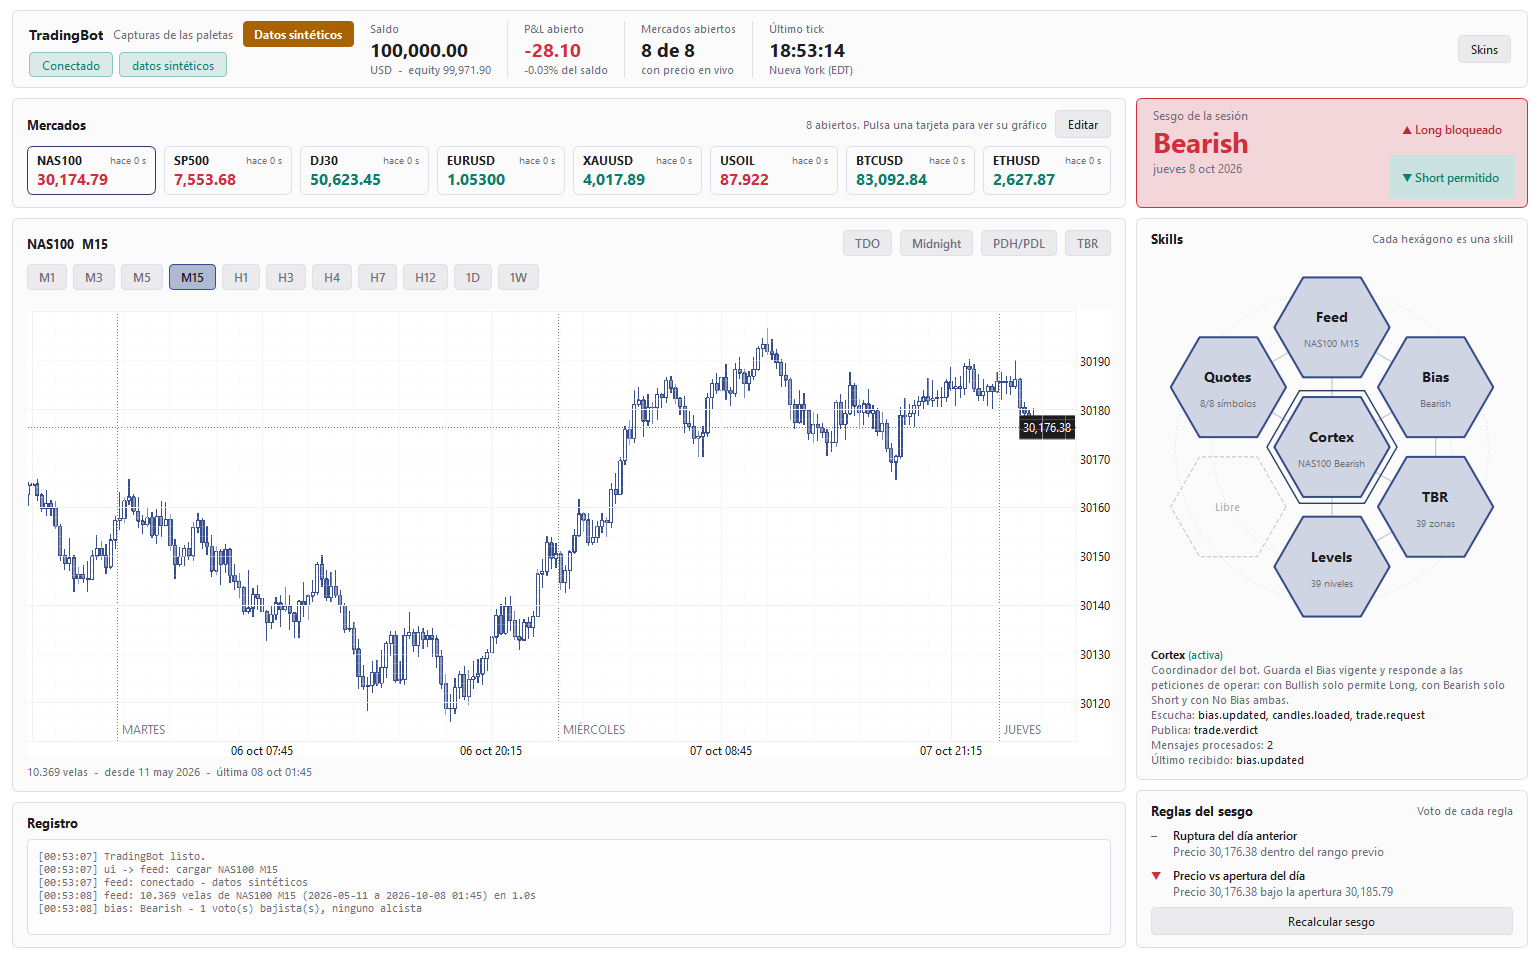
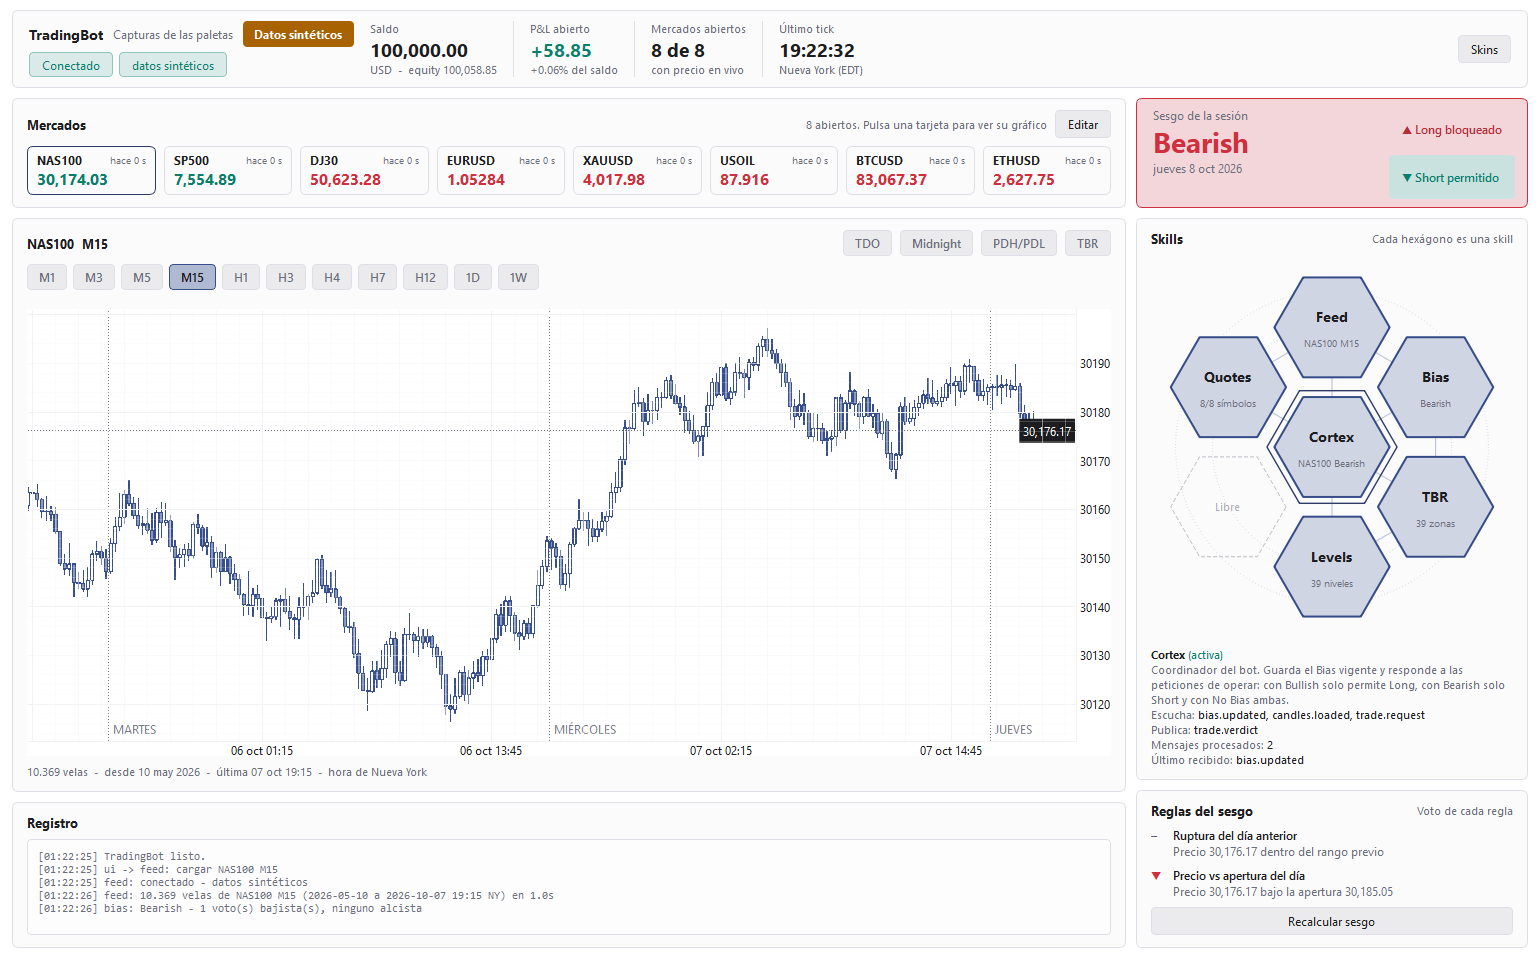
Gráfico: eje de tiempo en hora de Nueva York y ejes redimensionables
- El eje de tiempo muestra la hora de Nueva York (servidor - desfase que
  mide Quotes; hasta medirlo, NY + 7 h estimado). La línea bajo el gráfico
  y el registro también van en hora de NY e indican si es estimada.
- Los ejes se redimensionan arrastrándolos, como en TradingView: precio
  (abajo comprime, arriba estira; pasa a escala manual y permite mover en
  vertical) y tiempo (izquierda más velas, derecha menos, con la última
  vela fija). Doble clic en un eje: escala automática.
- Pruebas nuevas en tests/test_chart_axes.py; README y capturas al día.

diff --git a/tradingbot/ui/chart.py b/tradingbot/ui/chart.py
@@ -1,6 +1,7 @@
-"""Gráfico de velas rápido (pyqtgraph) con eje X por índice y niveles de referencia."""
+"""Gráfico de velas rápido (pyqtgraph) con eje X por índice (hora de Nueva York) y ejes redimensionables."""
 from __future__ import annotations
 
+import math
 from datetime import datetime, timezone
 
 import numpy as np
@@ -9,6 +10,7 @@ from PySide6.QtCore import QPointF, QRectF, Qt
 from PySide6.QtGui import QColor, QPen, QPolygonF
 from PySide6.QtWidgets import QGraphicsRectItem
 
+from ..clock import NY_CLOSE_SERVER_AHEAD_HOURS
 from ..skills.bias.rules import fmt_price
 from . import theme
 from .fmt import fecha_hora
@@ -60,15 +62,71 @@ class DaySeparators(pg.GraphicsObject):
             p.drawText(QPointF(pt.x() + 5, pt.y() - 6), label)
 
 
-class TimeAxis(pg.AxisItem):
-    """Eje X por índice de vela: muestra la hora del servidor del broker."""
+class ScaleAxis(pg.AxisItem):
+    """Eje que se redimensiona al arrastrarlo, como en TradingView. Doble clic: vuelve a la escala automática.
+
+    - Eje de precio: arrastrar hacia abajo comprime el precio, hacia arriba lo estira.
+    - Eje de tiempo: arrastrar a la izquierda muestra más velas, a la derecha menos (anclado a la derecha).
+    """
+
+    SENSITIVITY = 0.01      # factor de escala por píxel arrastrado
+
+    def __init__(self, orientation: str, **kw):
+        super().__init__(orientation=orientation, **kw)
+        self.chart: "ChartView | None" = None
+        vertical = orientation in ("left", "right")
+        self.setCursor(Qt.CursorShape.SizeVerCursor if vertical else Qt.CursorShape.SizeHorCursor)
+        self.setToolTip("Arrastra para redimensionar el eje. Doble clic: escala automática.")
+
+    @property
+    def vertical(self) -> bool:
+        return self.orientation in ("left", "right")
+
+    def mouseDragEvent(self, event):
+        vb = self.linkedView()
+        if self.chart is None or vb is None or event.button() != Qt.MouseButton.LeftButton:
+            return super().mouseDragEvent(event)
+        if vb.sceneBoundingRect().contains(event.buttonDownScenePos()):
+            event.ignore()                              # el arrastre empezó dentro del gráfico, no en el eje
+            return
+        event.accept()
+        delta = event.pos() - event.lastPos()
+        if self.vertical:
+            self.chart.scale_price(math.exp(delta.y() * self.SENSITIVITY))
+        else:
+            self.chart.scale_time(math.exp(-delta.x() * self.SENSITIVITY))
+
+    def mouseClickEvent(self, event):
+        if self.chart is not None and event.double() and event.button() == Qt.MouseButton.LeftButton:
+            event.accept()
+            if self.vertical:
+                self.chart.reset_price_scale()
+            else:
+                self.chart.reset_time_scale()
+            return
+        return super().mouseClickEvent(event)
+
+
+class TimeAxis(ScaleAxis):
+    """Eje X por índice de vela: muestra la hora de Nueva York.
+
+    Las velas llegan en hora del servidor del broker; `ny_shift` es cuánto va el servidor por delante de Nueva York
+    (en Vantage, 7 h). Hasta que Quotes mide el desfase real se usa ese valor estimado.
+    """
 
     def __init__(self, **kw):
-        super().__init__(orientation="bottom", **kw)
+        super().__init__("bottom", **kw)
         self._ts: np.ndarray = np.empty(0, dtype=np.int64)
+        self.ny_shift = NY_CLOSE_SERVER_AHEAD_HOURS * 3600
 
     def set_times(self, ts: np.ndarray) -> None:
         self._ts = ts
+
+    def set_ny_shift(self, seconds: int) -> None:
+        if seconds != self.ny_shift:
+            self.ny_shift = seconds
+            self.picture = None                         # fuerza a redibujar las etiquetas
+            self.update()
 
     def tickStrings(self, values, scale, spacing):
         out = []
@@ -76,7 +134,7 @@ class TimeAxis(pg.AxisItem):
         for v in values:
             i = int(round(v))
             if 0 <= i < n:
-                dt = datetime.fromtimestamp(int(self._ts[i]), tz=timezone.utc)
+                dt = datetime.fromtimestamp(int(self._ts[i]) - self.ny_shift, tz=timezone.utc)
                 out.append(fecha_hora(dt))
             else:
                 out.append("")
@@ -161,9 +219,14 @@ class CandlestickItem(pg.GraphicsObject):
 
 
 class ChartView(pg.PlotWidget):
+    VIEW_BARS = 220          # velas visibles al cargar (y al hacer doble clic en el eje de tiempo)
+    MIN_BARS = 10            # zoom máximo del eje de tiempo
+
     def __init__(self) -> None:
         self.time_axis = TimeAxis()
-        super().__init__(axisItems={"bottom": self.time_axis}, background=theme.CHART_BG)
+        self.price_axis = ScaleAxis("right")
+        super().__init__(axisItems={"bottom": self.time_axis, "right": self.price_axis}, background=theme.CHART_BG)
+        self.time_axis.chart = self.price_axis.chart = self
         pi = self.getPlotItem()
         pi.hideAxis("left")
         pi.showAxis("right")
@@ -214,7 +277,7 @@ class ChartView(pg.PlotWidget):
             self.set_levels(dict(self._levels))
         self.update()
 
-    def set_candles(self, df, view_bars: int = 220) -> None:
+    def set_candles(self, df, view_bars: int | None = None) -> None:
         o, h = df["open"].to_numpy(), df["high"].to_numpy()
         l, c = df["low"].to_numpy(), df["close"].to_numpy()
         self._n = len(df)
@@ -227,8 +290,45 @@ class ChartView(pg.PlotWidget):
         self.set_last_price(float(c[-1]))
         vb = self.getPlotItem().getViewBox()
         vb.setLimits(xMin=-5, xMax=self._n + 60)
-        vb.setXRange(max(0, self._n - view_bars), self._n + 8, padding=0)
+        vb.setXRange(max(0, self._n - (view_bars or self.VIEW_BARS)), self._n + 8, padding=0)
+        self.reset_price_scale()
+
+    # -- escala de los ejes (arrastrando sobre ellos) -------------------------------------------------
+    @property
+    def price_auto(self) -> bool:
+        """True mientras el eje de precio se ajusta solo a las velas visibles."""
+        return bool(self.getPlotItem().getViewBox().autoRangeEnabled()[1])
+
+    def set_ny_shift(self, seconds: int) -> None:
+        """Cuánto va el servidor del broker por delante de Nueva York (para las etiquetas del eje de tiempo)."""
+        self.time_axis.set_ny_shift(seconds)
+
+    def scale_price(self, factor: float) -> None:
+        """Estira (factor < 1) o comprime (factor > 1) el precio alrededor del centro; pasa a escala manual."""
+        vb = self.getPlotItem().getViewBox()
+        y0, y1 = vb.viewRange()[1]
+        center, half = (y0 + y1) / 2, (y1 - y0) / 2 * factor
+        vb.disableAutoRange(axis=vb.YAxis)
+        vb.setMouseEnabled(x=True, y=True)              # con escala manual, también se puede mover en vertical
+        vb.setYRange(center - half, center + half, padding=0)
+
+    def reset_price_scale(self) -> None:
+        vb = self.getPlotItem().getViewBox()
+        vb.setMouseEnabled(x=True, y=False)
+        vb.setAutoVisible(y=True)
         vb.enableAutoRange(axis="y")
+
+    def scale_time(self, factor: float) -> None:
+        """Más velas (factor > 1) o menos (factor < 1), manteniendo fijo el borde derecho."""
+        vb = self.getPlotItem().getViewBox()
+        x0, x1 = vb.viewRange()[0]
+        width = min(max((x1 - x0) * factor, self.MIN_BARS), self._n + 65)
+        vb.setXRange(x1 - width, x1, padding=0)
+
+    def reset_time_scale(self) -> None:
+        vb = self.getPlotItem().getViewBox()
+        vb.setXRange(max(0, self._n - self.VIEW_BARS), self._n + 8, padding=0)
+        self.reset_price_scale()
 
     def set_last_price(self, value: float) -> None:
         """Línea punteada y etiqueta con el último precio, como en los gráficos de MT5."""

diff --git a/tests/test_chart_axes.py b/tests/test_chart_axes.py
@@ -1,0 +1,93 @@
+"""Gráfico: eje de tiempo en hora de Nueva York y ejes redimensionables."""
+import os
+
+os.environ.setdefault("QT_QPA_PLATFORM", "offscreen")
+
+from datetime import datetime, timezone
+
+import numpy as np
+import pandas as pd
+import pytest
+
+
+@pytest.fixture(scope="module")
+def qapp():
+    from PySide6.QtWidgets import QApplication
+    return QApplication.instance() or QApplication([])
+
+
+def candles(n=500):
+    # velas M15 desde el miércoles 7 oct 2026 a las 01:00 del servidor (= 18:00 del martes en Nueva York)
+    t0 = int(datetime(2026, 10, 7, 1, 0, tzinfo=timezone.utc).timestamp())
+    ts = np.arange(n, dtype=np.int64) * 900 + t0
+    close = 1.10 + np.sin(np.arange(n) / 20) * 0.01
+    return pd.DataFrame({"ts": ts, "open": close, "high": close + 0.001, "low": close - 0.001, "close": close})
+
+
+def test_el_eje_de_tiempo_va_en_hora_de_nueva_york(qapp):
+    from tradingbot.ui.chart import ChartView
+    chart = ChartView()
+    chart.set_candles(candles())
+    assert chart.time_axis.tickStrings([0], 1, 1) == ["06 oct 18:00"]      # servidor 01:00 - 7 h (estimado)
+    chart.set_ny_shift(6 * 3600)
+    assert chart.time_axis.tickStrings([0], 1, 1) == ["06 oct 19:00"]
+    assert chart.time_axis.tickStrings([-1, 10_000], 1, 1) == ["", ""]
+
+
+def test_arrastrar_el_eje_de_precio_lo_redimensiona_y_doble_clic_lo_restaura(qapp):
+    from tradingbot.ui.chart import ChartView
+    chart = ChartView()
+    chart.set_candles(candles())
+    vb = chart.getPlotItem().getViewBox()
+    assert chart.price_auto
+    y0, y1 = vb.viewRange()[1]
+    chart.scale_price(2.0)                                               # arrastrar hacia abajo: comprime
+    z0, z1 = vb.viewRange()[1]
+    assert not chart.price_auto and (z1 - z0) == pytest.approx(2 * (y1 - y0))
+    assert (z0 + z1) / 2 == pytest.approx((y0 + y1) / 2)                 # alrededor del centro
+    assert vb.state["mouseEnabled"] == [True, True]                      # con escala manual se mueve en vertical
+    chart.reset_price_scale()
+    assert chart.price_auto and vb.state["mouseEnabled"] == [True, False]
+
+
+def test_arrastrar_el_eje_de_tiempo_cambia_las_velas_visibles_con_el_borde_derecho_fijo(qapp):
+    from tradingbot.ui.chart import ChartView
+    chart = ChartView()
+    chart.set_candles(candles())
+    vb = chart.getPlotItem().getViewBox()
+    x0, x1 = vb.viewRange()[0]
+    chart.scale_time(0.5)                                                # arrastrar a la derecha: menos velas
+    n0, n1 = vb.viewRange()[0]
+    assert n1 == pytest.approx(x1) and (n1 - n0) == pytest.approx((x1 - x0) / 2)
+    chart.scale_time(0.0001)                                             # nunca menos de MIN_BARS
+    m0, m1 = vb.viewRange()[0]
+    assert m1 - m0 == pytest.approx(chart.MIN_BARS)
+    chart.scale_price(3.0)
+    chart.reset_time_scale()                                             # doble clic en el eje de tiempo
+    assert vb.viewRange()[0] == pytest.approx([x0, x1]) and chart.price_auto
+
+
+def test_los_ejes_responden_al_raton(qapp):
+    from tradingbot.ui.chart import ChartView, ScaleAxis
+    chart = ChartView()
+    assert isinstance(chart.getPlotItem().getAxis("right"), ScaleAxis)
+    assert chart.price_axis.vertical and not chart.time_axis.vertical
+    assert chart.price_axis.chart is chart and chart.time_axis.chart is chart
+
+
+def test_la_ventana_pasa_el_desfase_medido_al_eje(qapp, tmp_path, monkeypatch):
+    from tradingbot import settings
+    from tradingbot.core import EventBus, Services, SkillManager
+    from tradingbot.ui.main_window import MainWindow
+    monkeypatch.setattr(settings, "SETTINGS_FILE", tmp_path / "s.json")
+    cfg = {"app": {"symbol": "EURUSD", "timeframe": "15m", "watchlist": ["EURUSD"]}}
+    bus = EventBus()
+    win = MainWindow(bus, SkillManager(bus, Services(None, None, cfg), []), cfg, "t")
+    df = candles()
+    df["time"] = pd.to_datetime(df["ts"], unit="s")
+    win._on_candles({"df": df, "symbol": "EURUSD", "timeframe": "15m", "seconds": 0.1})
+    assert "06 oct 2026" in win.chart_stats.text() and "Nueva York (estimada)" in win.chart_stats.text()
+    summer = 3 * 3600                                                    # servidor UTC+3 con NY en horario de verano
+    win._on_quotes({"quotes": {}, "account": None, "server_offset": summer, "offset_source": "detectado"})
+    assert win.chart.time_axis.ny_shift == win.ny_shift and not win.ny_estimated
+    assert "estimada" not in win.chart_stats.text()

diff --git a/tradingbot/ui/main_window.py b/tradingbot/ui/main_window.py
@@ -12,7 +12,7 @@ from PySide6.QtWidgets import (QApplication, QButtonGroup, QFrame, QHBoxLayout, 
                                QProgressBar, QPushButton, QVBoxLayout, QWidget)
 
 from ..skills.bias import BiasResult
-from ..clock import format_offset, ny_from_server
+from ..clock import format_offset, ny_from_server, server_minus_ny
 from ..core import Event, EventBus, SkillManager
 from ..skills.feed.datasource import AccountSnapshot
 from ..timeframes import DEFAULT_TIMEFRAME, TIMEFRAMES, display_label
@@ -46,6 +46,7 @@ class MainWindow(QMainWindow):
         self.theme_name = theme_name
         self.all_symbols: list[str] = []
         self.charted_symbol = ""
+        self.ny_shift, self.ny_estimated = server_minus_ny(None)   # servidor - Nueva York (estimado hasta medirlo)
         self.current_symbol = self._match_symbol(app_cfg["app"]["symbol"]) or (self.watchlist[0] if self.watchlist else "")
 
         self.setWindowTitle("TradingBot")
@@ -171,7 +172,8 @@ class MainWindow(QMainWindow):
 
         chart_panel = Panel("Gráfico")
         self.chart_panel = chart_panel
-        chart_panel.title.setToolTip("Precio bid. El eje de tiempo va en hora del servidor del broker.")
+        chart_panel.title.setToolTip("Precio bid. El eje de tiempo va en hora de Nueva York.\n"
+                                     "Arrastra un eje para redimensionarlo; doble clic en él: escala automática.")
         # TBR: zonas horarias de NY y sus niveles (skill tbr; horarios y colores en tradingbot.env, bloque TBR)
         self.tbr_btn = QPushButton("TBR")
         self.tbr_btn.setProperty("chip", "true")
@@ -428,18 +430,37 @@ class MainWindow(QMainWindow):
             self._set_status("Conectado", "ok")
         self.candles = df
         self.chart.set_candles(df)
-        first, last = df["time"].iloc[0], df["time"].iloc[-1]
+        self.chart.set_ny_shift(self.ny_shift)
         self.chart_panel.title.setText(f"{symbol}  {display_label(tf)}")
-        self.chart_stats.setText(f"{miles(len(df))} velas  -  desde {fecha_corta(first)}  -  última {fecha_hora(last)}")
+        self._update_chart_stats()
+        first, last = self._ny(df["ts"].iloc[0]), self._ny(df["ts"].iloc[-1])
         self.log(f"feed: {miles(len(df))} velas de {symbol} {display_label(tf)} "
-                 f"({first:%Y-%m-%d} a {last:%Y-%m-%d %H:%M}) en {p['seconds']:.1f}s")
+                 f"({first:%Y-%m-%d} a {last:%Y-%m-%d %H:%M} NY) en {p['seconds']:.1f}s")
         self._set_busy(False)
         if not self._first_done:
             self._first_done = True
             self.first_loaded.emit()
 
+    def _ny(self, server_ts) -> datetime:
+        """Hora de Nueva York de una marca de tiempo del servidor (sin zona, para mostrar)."""
+        return datetime.fromtimestamp(int(server_ts) - self.ny_shift, tz=timezone.utc).replace(tzinfo=None)
+
+    def _update_chart_stats(self) -> None:
+        df = self.candles
+        if df is None or not len(df):
+            return
+        first, last = self._ny(df["ts"].iloc[0]), self._ny(df["ts"].iloc[-1])
+        zone = "hora de Nueva York (estimada)" if self.ny_estimated else "hora de Nueva York"
+        self.chart_stats.setText(f"{miles(len(df))} velas  -  desde {fecha_corta(first)}  -  "
+                                 f"última {fecha_hora(last)}  -  {zone}")
+
     def _on_quotes(self, p: dict) -> None:
         quotes, account = p["quotes"], p["account"]
+        shift, estimated = server_minus_ny(p.get("server_offset"))
+        if (shift, estimated) != (self.ny_shift, self.ny_estimated):
+            self.ny_shift, self.ny_estimated = shift, estimated     # desfase medido: el eje pasa a hora exacta
+            self.chart.set_ny_shift(shift)
+            self._update_chart_stats()
         self.markets.set_quotes(quotes)
         live = [q for q in quotes.values() if q]
         if live:

diff --git a/README.md b/README.md
@@ -16,7 +16,8 @@ Cabecera: estado de la conexión y cuenta; a continuación, saldo/equity, P&L ab
 servidor comparando los ticks en vivo con el reloj de tu PC (unos segundos tras conectar) y convierte a Nueva York
 respetando el cambio de horario de EE. UU. Hasta que lo mide, la hora se marca como *(estimada)* y asume servidor = Nueva York + 7 h.
 Pasa el ratón sobre la caja para ver la hora del servidor y el desfase detectado. Si no lo detecta bien (PC desincronizado),
-fíjalo a mano con `QUOTES_SERVER_UTC_OFFSET` en `tradingbot.env`. Las horas del eje del gráfico siguen siendo las del servidor.
+fíjalo a mano con `QUOTES_SERVER_UTC_OFFSET` en `tradingbot.env`. El eje de tiempo del gráfico también va en hora de
+Nueva York (hasta medir el desfase, estimada; lo indica la línea bajo el gráfico).
 
 Panel **Mercados**: cotizaciones de solo lectura (se refrescan cada segundo; se cambia con `QUOTES_INTERVAL`). Con el botón **Editar** del panel eliges
 qué mercados se muestran: busca entre los símbolos reales de tu broker (también por nombre común: *dow*, *nasdaq*,
@@ -28,6 +29,12 @@ Usa los nombres exactos de tu broker (en MT5: Ver > Símbolos).
 
 Pinchar una tarjeta carga su gráfico (no hay selector de símbolo ni botón de cargar): para ver un símbolo nuevo,
 añádelo primero con **Editar**. Si quitas el mercado que estás viendo, el gráfico carga el primero de la lista.
+
+**Ejes del gráfico**: se redimensionan arrastrándolos con el ratón, como en TradingView.
+- Eje de precio (derecha): arrastrar hacia abajo comprime el precio y hacia arriba lo estira. Al tocarlo, el precio
+  deja de ajustarse solo y el gráfico también se puede mover en vertical.
+- Eje de tiempo (abajo): arrastrar a la izquierda muestra más velas y a la derecha menos, sin mover la vela más reciente.
+- Doble clic en un eje: vuelve a la escala automática (en el de tiempo, también a las últimas 220 velas).
 
 **Timeframes** (chips sobre el gráfico): M1, M3, M5, M15, H1, H3, H4, H7, H12, 1D y 1W. Cambiar de timeframe recarga el mercado actual.
 - MT5 no tiene H7 (solo H1, H2, H3, H4, H6, H8 y H12). H7 se construye agrupando velas de 1 hora, alineadas con la
